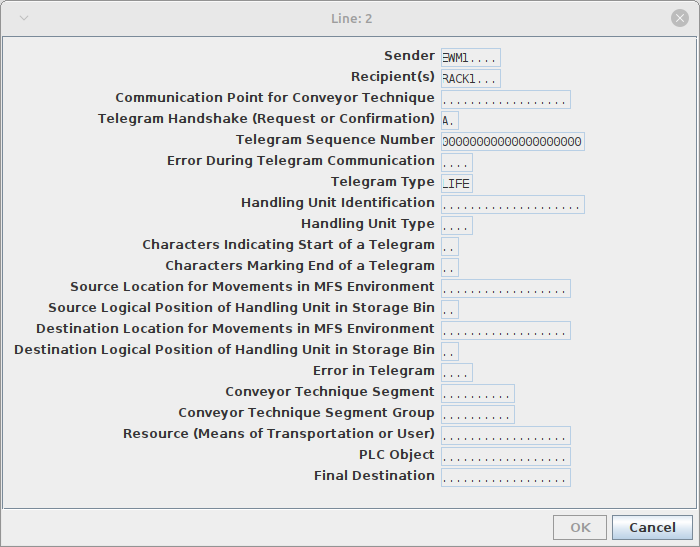
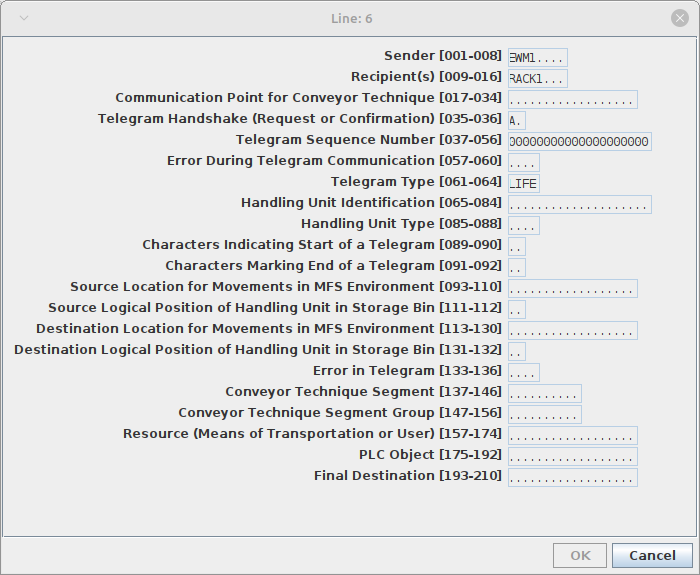
line numbers in telegrams log

Changed region(s): [[0.0, 0.0311, 0.99, 0.9945]]

diff --git a/src/pl/sapusers/mfsplc/sim/Sim.java b/src/pl/sapusers/mfsplc/sim/Sim.java
@@ -20,6 +20,7 @@ import javax.swing.JLabel;
 import javax.swing.JOptionPane;
 import javax.swing.JPanel;
 import javax.swing.JScrollPane;
+import javax.swing.JTextArea;
 import javax.swing.JTextField;
 import javax.swing.JTextPane;
 import javax.swing.JToggleButton;
@@ -28,7 +29,10 @@ import javax.swing.SwingConstants;
 import javax.swing.border.EmptyBorder;
 import javax.swing.border.LineBorder;
 import javax.swing.border.TitledBorder;
+import javax.swing.event.DocumentEvent;
+import javax.swing.event.DocumentListener;
 import javax.swing.text.BadLocationException;
+import javax.swing.text.Element;
 import javax.swing.text.Style;
 import javax.swing.text.StyleConstants;
 import javax.swing.text.StyledDocument;
@@ -44,6 +48,7 @@ import com.sap.conn.jco.JCoRecordMetaData;
 import com.sap.conn.jco.JCoStructure;
 
 import pl.sapusers.mfsplc.bridge.JFieldTextValidator;
+import java.awt.Dimension;
 
 @SuppressWarnings("serial")
 public class Sim extends JFrame {
@@ -268,27 +273,30 @@ public class Sim extends JFrame {
 		textTelegram.setColumns(100);
 
 		JScrollPane scrollPane = new JScrollPane();
+		scrollPane.setAlignmentX(0.0f);
+		scrollPane.setAlignmentY(0.0f);
 		scrollPane.setViewportBorder(
-				new TitledBorder(null, "Telegrams Log", TitledBorder.LEADING, TitledBorder.TOP, null, null));
+				null);
 		scrollPane.setVerticalScrollBarPolicy(ScrollPaneConstants.VERTICAL_SCROLLBAR_ALWAYS);
 		scrollPane.setHorizontalScrollBarPolicy(ScrollPaneConstants.HORIZONTAL_SCROLLBAR_ALWAYS);
 		TelegramPanel.add(scrollPane, BorderLayout.CENTER);
-
+		
 		textArea = new TelegramsLog(configuration, telegramMetadata);
 		textArea.addMouseListener(new MouseAdapter() {
 			@Override
 			public void mouseClicked(MouseEvent e) {
 				if (e.getClickCount() == 2) {
 					try {
-						int line = textArea.getCaretPosition();
-						int start = Utilities.getRowStart(textArea, line);
-						int end = Utilities.getRowEnd(textArea, line);
+						int caretPosition = textArea.getCaretPosition();
+						int start = Utilities.getRowStart(textArea, caretPosition);
+						int end = Utilities.getRowEnd(textArea, caretPosition);
 
 						String text = textArea.getDocument().getText(start, end - start);
 						if (!text.equals("")) {
 							JCoStructure telegram = JCo.createStructure(telegramMetadata);
 							telegram.setString(text);
-							new TelegramDialog(telegram.getRecordFieldIterator(), true, "Line: " + (line + 1));
+							int line = textArea.getDocument().getDefaultRootElement().getElementIndex(caretPosition)+1;
+							new TelegramDialog(telegram.getRecordFieldIterator(), true, "Line: " + line);
 						}
 					} catch (BadLocationException exc) {
 						logger.catching(exc);
@@ -298,7 +306,42 @@ public class Sim extends JFrame {
 		});
 		textArea.setEditable(false);
 		textArea.setFont(new Font("Monospaced", Font.PLAIN, 12));
+		
+		JTextArea lineNumbers = new JTextArea("1");
+		lineNumbers.setFont(new Font("Monospaced", Font.PLAIN, 12));
+		lineNumbers.setBackground(Color.LIGHT_GRAY);
+		lineNumbers.setEditable(false);
+		lineNumbers.setMargin(textArea.getMargin());
+		
+		textArea.getDocument().addDocumentListener(new DocumentListener(){
+			public String getText(){
+				int caretPosition = textArea.getDocument().getLength();
+				Element root = textArea.getDocument().getDefaultRootElement();
+				String text = "1" + System.getProperty("line.separator");
+				for(int i = 2; i < root.getElementIndex( caretPosition ) + 1; i++){
+					text += i + System.getProperty("line.separator");
+				}
+				return text;
+			}
+			@Override
+			public void changedUpdate(DocumentEvent de) {
+				lineNumbers.setText(getText());
+			}
+ 
+			@Override
+			public void insertUpdate(DocumentEvent de) {
+				lineNumbers.setText(getText());
+			}
+ 
+			@Override
+			public void removeUpdate(DocumentEvent de) {
+				lineNumbers.setText(getText());
+			}
+ 
+		});
+		
 		scrollPane.setViewportView(textArea);
+		scrollPane.setRowHeaderView(lineNumbers);
 
 		JPanel TopPanel = new JPanel();
 		TopPanel.setBorder(new TitledBorder(null, "Controls", TitledBorder.LEADING, TitledBorder.TOP, null, null));
